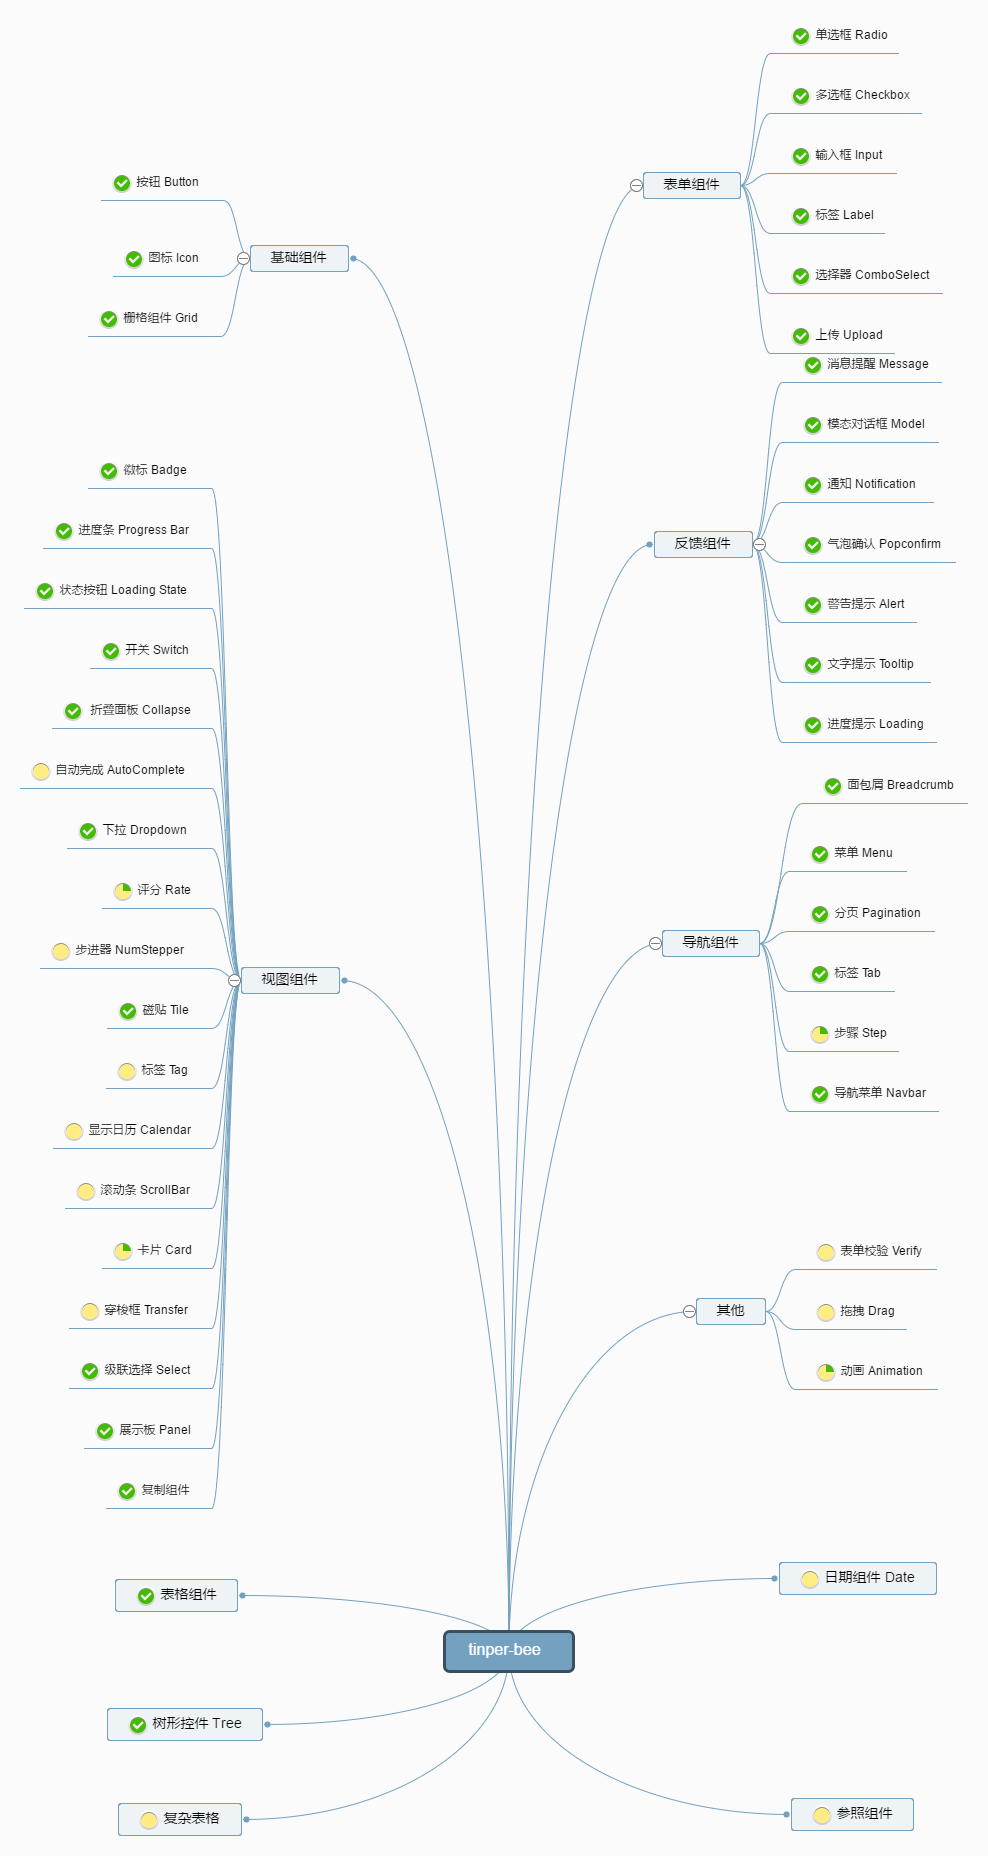
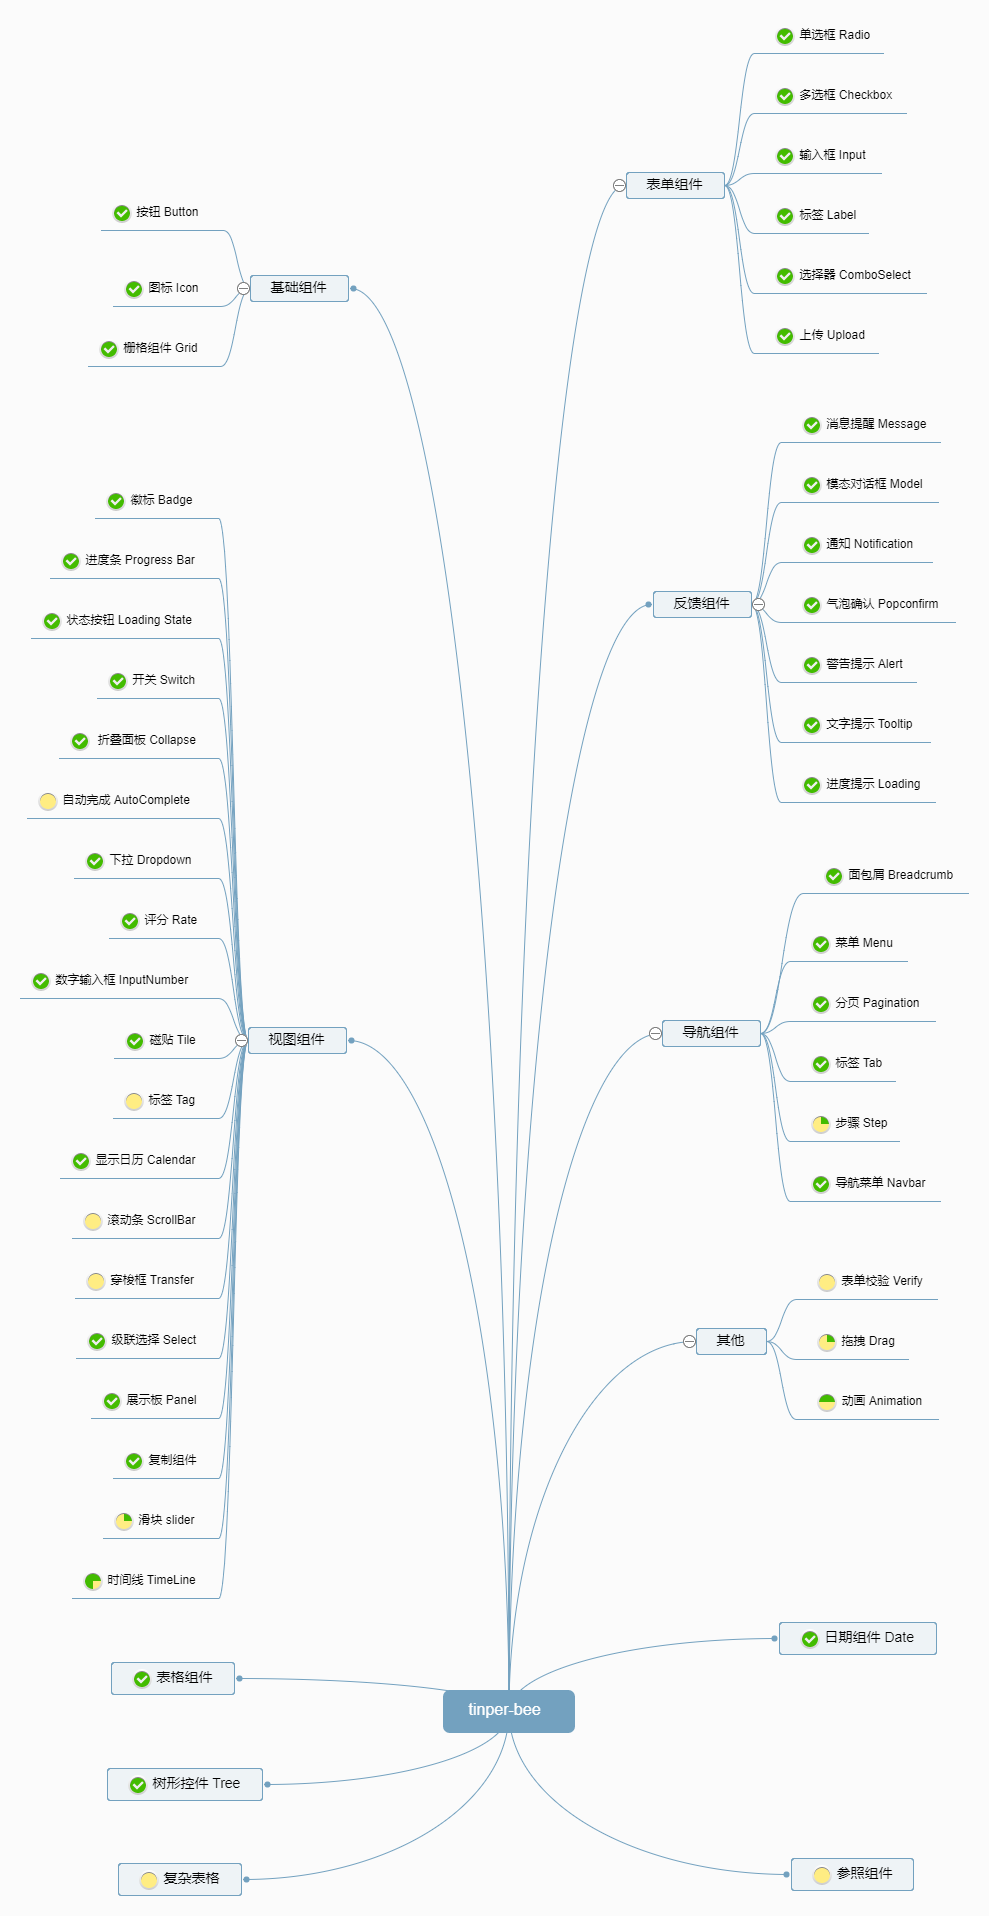
update

diff --git a/现有组件及待开发.md b/现有组件及待开发.md
@@ -9,13 +9,9 @@
 - Loadingstate
 - FormControl
 - InputGroup
-- InputGroupButton
-- InputGroupAddon
-- ControlLabel
+- Label
 - FormGroup
 - Tooltip
-- OverlayTrigger
-- Overlay
 - Pagination
 - RadioGroup
 - Checkbox
@@ -24,8 +20,8 @@
 - Dropdown
 - Tab
 - ButtonGroup
-- col
-- row
+- Col
+- Row
 - Form
 - Dropdown
 - Switch
@@ -33,52 +29,46 @@
 - Loading
 - Table
 - Panel
-- carousel
-- narbar
+- Carousel
+- Narbar
+- InputNumber
+- Menu
+- Icon
+- DatePicker
+- TimePicker
+- Calendar
+- Clipboard
+- Rate
 
 
 ### 正在开发组件
+
 |组件|开发者|
-|:--|--:|
+|Affix|姚鑫|
+|BackTop|邵震|
+|Timeline|ahua|
+|Slider|ahua|
 
 
 ### 待开发组件
 
 #### 基本组件
 
-
-- combo
-- loader
-- multilang
-- textfield
-- image
 - step
-- thumbnail
-- media
-- listgroup
-- gallery
-- card
 
 #### 复杂组件
 
-- menu
-- dialog
-- refer
-- modal
 - autocomplete
-
+- Transfer 穿梭框
+- Carousel 走马灯
 
 
 #### 布局组件
 
 
-#### 插件式组件
+#### 应用组件
 
-- 日期组件
-- 表格组件
-- 表单组件
-- grid
-- tree
+- 参照组件
 
 #### 核心工具
 
